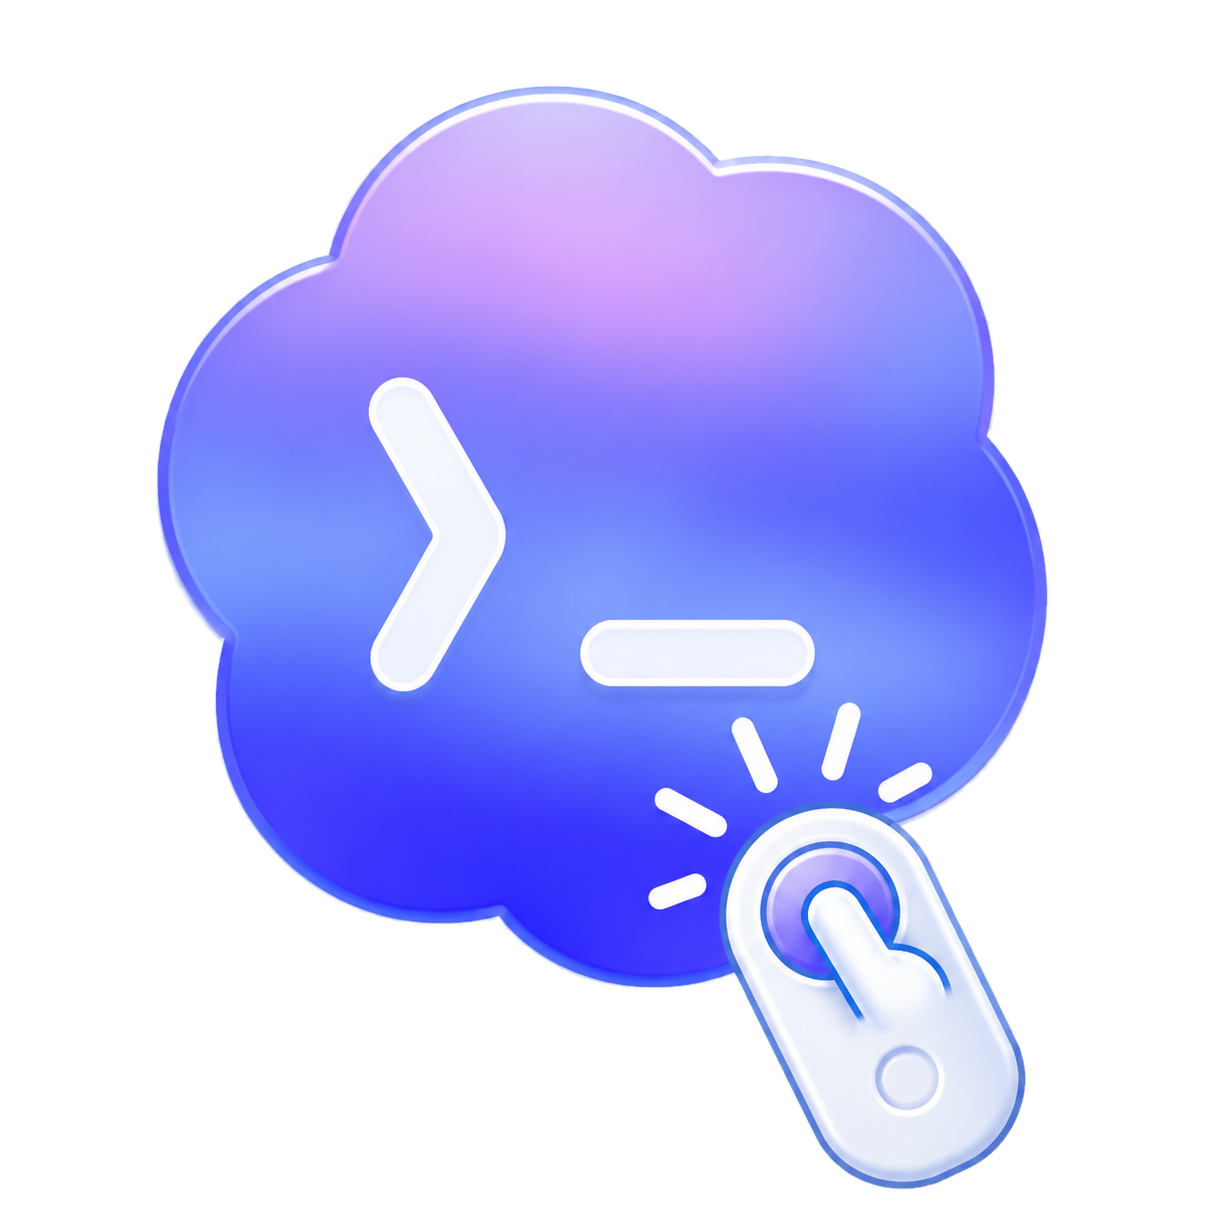
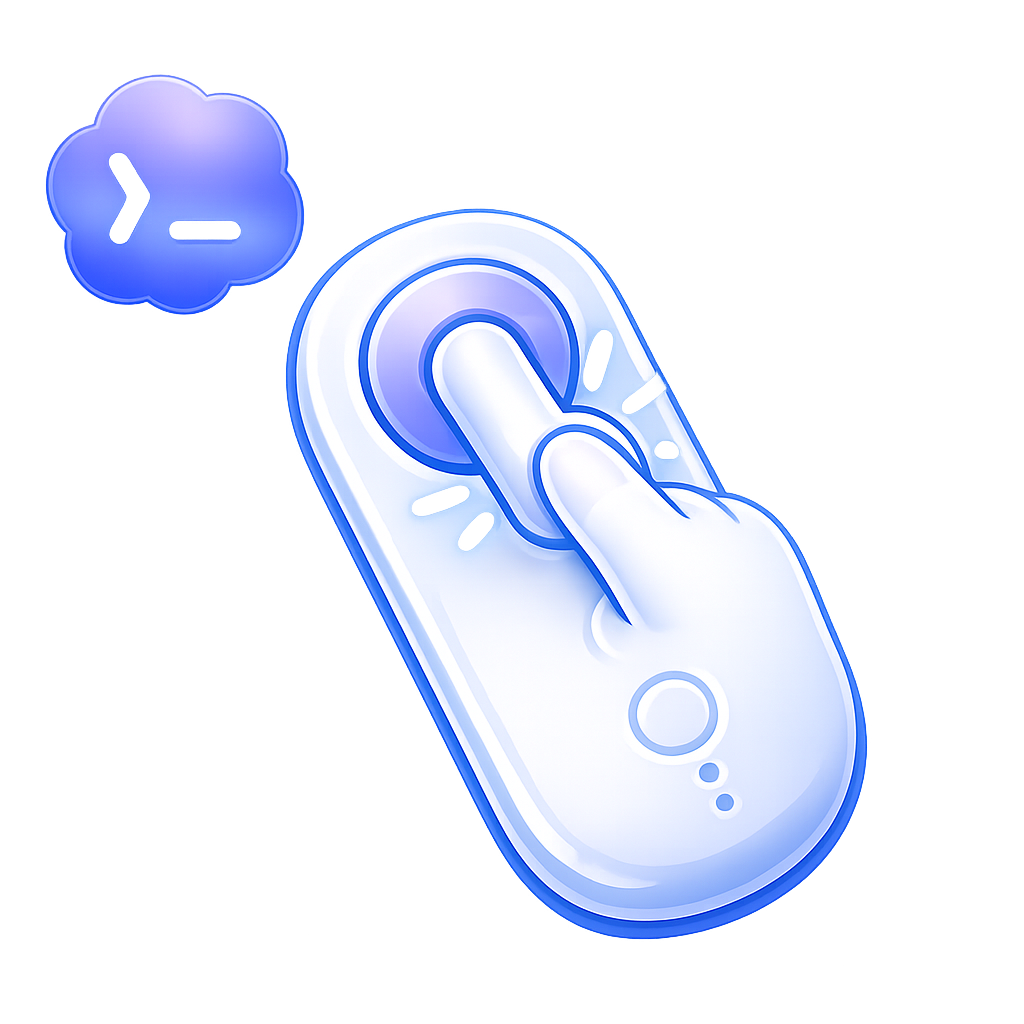
dd

diff --git a/tests/CodexSwitcher.Tests/Profiles/SwitchProfileUseCaseTests.cs b/tests/CodexSwitcher.Tests/Profiles/SwitchProfileUseCaseTests.cs
@@ -6,13 +6,12 @@ namespace CodexSwitcher.Tests.Profiles;
 public sealed class SwitchProfileUseCaseTests
 {
     [TestMethod]
-    public async Task Execute_FromRunningKnownProfile_StopsAppliesTargetAndRuns()
+    public async Task Execute_FromRunningKnownProfile_ForceStopsAppliesTargetAndRuns()
     {
         var fixture = new Fixture();
 
         var result = await fixture.UseCase.ExecuteAsync(
             fixture.TargetProfile.Id,
-            forceCloseApproved: false,
             CancellationToken.None);
 
         Assert.AreEqual(SwitchProfileStatus.Switched, result.Status);
@@ -22,11 +21,20 @@ public sealed class SwitchProfileUseCaseTests
         Assert.IsFalse(fixture.Authentication.HasRecovery);
         CollectionAssert.Contains(
             fixture.Events,
-            "codex:request-stop");
+            "codex:force-stop");
         CollectionAssert.Contains(
             fixture.Events,
             "auth:prepare-profile");
-        Assert.AreEqual(0, fixture.Codex.ForceStopCount);
+        Assert.AreEqual(1, fixture.Codex.ForceStopCount);
+        CollectionAssert.DoesNotContain(
+            fixture.Events,
+            "codex:request-stop");
+        Assert.IsLessThan(
+            fixture.Events.IndexOf("auth:prepare-profile"),
+            fixture.Events.IndexOf("codex:force-stop"));
+        Assert.IsLessThan(
+            fixture.Events.IndexOf("codex:launch"),
+            fixture.Events.IndexOf("auth:prepare-profile"));
     }
 
     [TestMethod]
@@ -38,7 +46,6 @@ public sealed class SwitchProfileUseCaseTests
 
         var result = await fixture.UseCase.ExecuteAsync(
             fixture.TargetProfile.Id,
-            forceCloseApproved: false,
             CancellationToken.None);
 
         Assert.AreEqual(
@@ -61,7 +68,6 @@ public sealed class SwitchProfileUseCaseTests
 
         var result = await fixture.UseCase.ExecuteAsync(
             fixture.TargetProfile.Id,
-            forceCloseApproved: false,
             CancellationToken.None);
 
         Assert.AreEqual(
@@ -76,43 +82,28 @@ public sealed class SwitchProfileUseCaseTests
     }
 
     [TestMethod]
-    public async Task Execute_WhenStopRequiresForceWithoutApproval_AsksForConfirmation()
+    public async Task Execute_WhenForceStopFails_DoesNotChangeAuthentication()
     {
         var fixture = new Fixture();
-        fixture.Codex.StopStatus =
-            CodexStopStatus.ForceCloseRequired;
+        fixture.Codex.ForceStopResult = false;
 
         var result = await fixture.UseCase.ExecuteAsync(
             fixture.TargetProfile.Id,
-            forceCloseApproved: false,
             CancellationToken.None);
 
         Assert.AreEqual(
-            SwitchProfileStatus.ForceCloseConfirmationRequired,
+            SwitchProfileStatus.Failed,
             result.Status);
-        Assert.AreEqual(0, fixture.Codex.ForceStopCount);
+        Assert.AreEqual(1, fixture.Codex.ForceStopCount);
+        CollectionAssert.AreEqual(
+            fixture.ActiveCredential,
+            fixture.Authentication.CurrentCredential);
         CollectionAssert.DoesNotContain(
             fixture.Events,
             "auth:prepare-profile");
-    }
-
-    [TestMethod]
-    public async Task Execute_WhenForceApproved_ForceStopsAndSwitches()
-    {
-        var fixture = new Fixture();
-        fixture.Codex.StopStatus =
-            CodexStopStatus.ForceCloseRequired;
-
-        var result = await fixture.UseCase.ExecuteAsync(
-            fixture.TargetProfile.Id,
-            forceCloseApproved: true,
-            CancellationToken.None);
-
-        Assert.AreEqual(SwitchProfileStatus.Switched, result.Status);
-        Assert.AreEqual(1, fixture.Codex.ForceStopCount);
-        CollectionAssert.AreEqual(
-            fixture.TargetCredential,
-            fixture.Authentication.CurrentCredential);
+        CollectionAssert.DoesNotContain(
+            fixture.Events,
+            "codex:launch");
     }
 
     [TestMethod]
@@ -122,7 +113,6 @@ public sealed class SwitchProfileUseCaseTests
 
         var result = await fixture.UseCase.ExecuteAsync(
             ProfileId.New(),
-            forceCloseApproved: false,
             CancellationToken.None);
 
         Assert.AreEqual(
@@ -145,7 +135,6 @@ public sealed class SwitchProfileUseCaseTests
 
         var result = await fixture.UseCase.ExecuteAsync(
             fixture.TargetProfile.Id,
-            forceCloseApproved: false,
             CancellationToken.None);
 
         Assert.AreEqual(
@@ -166,7 +155,6 @@ public sealed class SwitchProfileUseCaseTests
 
         var result = await fixture.UseCase.ExecuteAsync(
             fixture.TargetProfile.Id,
-            forceCloseApproved: false,
             CancellationToken.None);
 
         Assert.AreEqual(
@@ -188,7 +176,6 @@ public sealed class SwitchProfileUseCaseTests
 
         var result = await fixture.UseCase.ExecuteAsync(
             fixture.TargetProfile.Id,
-            forceCloseApproved: false,
             CancellationToken.None);
 
         Assert.AreEqual(
@@ -382,6 +369,8 @@ public sealed class SwitchProfileUseCaseTests
         public CodexStopStatus StopStatus { get; set; } =
             CodexStopStatus.Stopped;
 
+        public bool ForceStopResult { get; set; } = true;
+
         public int ForceStopCount { get; private set; }
 
         public Task<bool> IsRunningAsync(
@@ -403,7 +392,7 @@ public sealed class SwitchProfileUseCaseTests
         {
             _events.Add("codex:force-stop");
             ForceStopCount++;
-            return Task.FromResult(true);
+            return Task.FromResult(ForceStopResult);
         }
 
         public Task<CodexLaunchStatus> LaunchAsync(

diff --git a/src/CodexSwitcher.Core/Profiles/SwitchProfileUseCase.cs b/src/CodexSwitcher.Core/Profiles/SwitchProfileUseCase.cs
@@ -23,7 +23,6 @@ public sealed class SwitchProfileUseCase
 
     public async Task<SwitchProfileResult> ExecuteAsync(
         ProfileId profileId,
-        bool forceCloseApproved,
         CancellationToken cancellationToken)
     {
         using var operation =
@@ -91,12 +90,10 @@ public sealed class SwitchProfileUseCase
                     return Result(SwitchProfileStatus.AlreadyRunningTarget);
                 }
 
-                var stopResult = await EnsureStoppedAsync(
-                    forceCloseApproved,
-                    cancellationToken);
-                if (stopResult is not null)
+                if (!await _codexController.ForceStopAsync(
+                        cancellationToken))
                 {
-                    return stopResult;
+                    return Result(SwitchProfileStatus.Failed);
                 }
             }
 
@@ -237,39 +234,10 @@ public sealed class SwitchProfileUseCase
         return match;
     }
 
-    private async Task<SwitchProfileResult?> EnsureStoppedAsync(
-        bool forceCloseApproved,
-        CancellationToken cancellationToken)
-    {
-        var stopStatus = await _codexController.RequestStopAsync(
-            cancellationToken);
-        if (stopStatus == CodexStopStatus.Stopped)
-        {
-            return null;
-        }
-
-        if (stopStatus == CodexStopStatus.Failed)
-        {
-            return Result(SwitchProfileStatus.Failed);
-        }
-
-        if (!forceCloseApproved)
-        {
-            return Result(
-                SwitchProfileStatus.ForceCloseConfirmationRequired);
-        }
-
-        return await _codexController.ForceStopAsync(cancellationToken)
-            ? null
-            : Result(SwitchProfileStatus.Failed);
-    }
-
     private async Task<SwitchProfileResult> StopAndRestoreAfterMismatchAsync(
         CancellationToken cancellationToken)
     {
-        var stopStatus = await _codexController.RequestStopAsync(
-            cancellationToken);
-        return stopStatus == CodexStopStatus.Stopped
+        return await _codexController.ForceStopAsync(cancellationToken)
             ? await RestoreAfterFailureAsync(
                 SwitchProfileStatus.AuthenticationMismatch,
                 cancellationToken)

diff --git a/src/CodexSwitcher.Bootstrapper/MainWindow.xaml.cs b/src/CodexSwitcher.Bootstrapper/MainWindow.xaml.cs
@@ -80,24 +80,8 @@ public partial class MainWindow : FluentWindow
             return;
         }
 
-        var result = await _viewModel.SwitchProfileAsync(
-            profile.Id,
-            forceCloseApproved: false,
-            CancellationToken.None);
-        if (result.Status !=
-            SwitchProfileStatus.ForceCloseConfirmationRequired)
-        {
-            return;
-        }
-
-        if (!ConfirmForceCloseForSwitch())
-        {
-            return;
-        }
-
         await _viewModel.SwitchProfileAsync(
             profile.Id,
-            forceCloseApproved: true,
             CancellationToken.None);
     }
 
@@ -210,17 +194,6 @@ public partial class MainWindow : FluentWindow
                    this,
                    "Codex가 정상적으로 종료되지 않았습니다. 저장되지 않은 작업이 손실될 수 있습니다.\n\n강제 종료 후 계속하시겠습니까?",
                    "강제 종료 확인",
-                   MessageBoxButton.YesNo,
-                   MessageBoxImage.Warning,
-                   MessageBoxResult.No) == MessageBoxResult.Yes;
-    }
-
-    private bool ConfirmForceCloseForSwitch()
-    {
-        return MessageBox.Show(
-                   this,
-                   "Codex가 정상적으로 종료되지 않았습니다. 저장되지 않은 작업이 손실될 수 있습니다.\n\n강제 종료 후 전환하시겠습니까?",
-                   "강제 종료 후 전환",
                    MessageBoxButton.YesNo,
                    MessageBoxImage.Warning,
                    MessageBoxResult.No) == MessageBoxResult.Yes;

diff --git a/src/CodexSwitcher.Infrastructure/Profiles/WindowsCodexLoginController.cs b/src/CodexSwitcher.Infrastructure/Profiles/WindowsCodexLoginController.cs
@@ -81,9 +81,9 @@ public sealed class WindowsCodexLoginController : ICodexLoginController
     public async Task<bool> ForceStopAsync(
         CancellationToken cancellationToken)
     {
-        // 임시방편: 현재 Store형 Codex가 정상 종료 요청에 응답하지 않는
-        // 경우가 있어 사용자 동의 후에만 강제 종료한다. 추후 신뢰할 수
-        // 있는 정상 종료 방식을 찾으면 이 분기를 교체해야 한다.
+        // 현재 Store형 Codex가 정상 종료 요청에 응답하지 않는 경우가
+        // 있어 계정 전환에서는 이 경로로 즉시 종료한다. 추후 신뢰할 수
+        // 있는 정상 종료 방식을 찾으면 이 구현을 교체해야 한다.
         var processes = GetCodexProcesses();
 
         try

diff --git a/src/CodexSwitcher.Bootstrapper/Presentation/MainWindowViewModel.cs b/src/CodexSwitcher.Bootstrapper/Presentation/MainWindowViewModel.cs
@@ -220,7 +220,6 @@ public sealed class MainWindowViewModel : INotifyPropertyChanged
 
     public async Task<SwitchProfileResult> SwitchProfileAsync(
         ProfileId profileId,
-        bool forceCloseApproved,
         CancellationToken cancellationToken)
     {
         if (_isOperationInProgress)
@@ -247,7 +246,6 @@ public sealed class MainWindowViewModel : INotifyPropertyChanged
         {
             result = await _switchProfile.ExecuteAsync(
                 profileId,
-                forceCloseApproved,
                 cancellationToken);
             OperationStatusMessage =
                 DescribeSwitchResult(result.Status);
@@ -450,8 +448,6 @@ public sealed class MainWindowViewModel : INotifyPropertyChanged
                 "선택한 프로필을 찾을 수 없습니다.",
             SwitchProfileStatus.RunningUnknownProfile =>
                 "현재 실행 중인 Codex 프로필을 확인할 수 없어 전환하지 않았습니다.",
-            SwitchProfileStatus.ForceCloseConfirmationRequired =>
-                "Codex가 정상 종료되지 않았습니다. 강제 종료 확인이 필요합니다.",
             SwitchProfileStatus.InstallationNotFound =>
                 "실행할 수 있는 Codex 설치를 찾지 못했습니다.",
             SwitchProfileStatus.LaunchFailed =>

diff --git a/src/CodexSwitcher.Core/Profiles/SwitchProfileStatus.cs b/src/CodexSwitcher.Core/Profiles/SwitchProfileStatus.cs
@@ -6,7 +6,6 @@ public enum SwitchProfileStatus
     AlreadyRunningTarget,
     ProfileNotFound,
     RunningUnknownProfile,
-    ForceCloseConfirmationRequired,
     InstallationNotFound,
     LaunchFailed,
     AuthenticationMismatch,